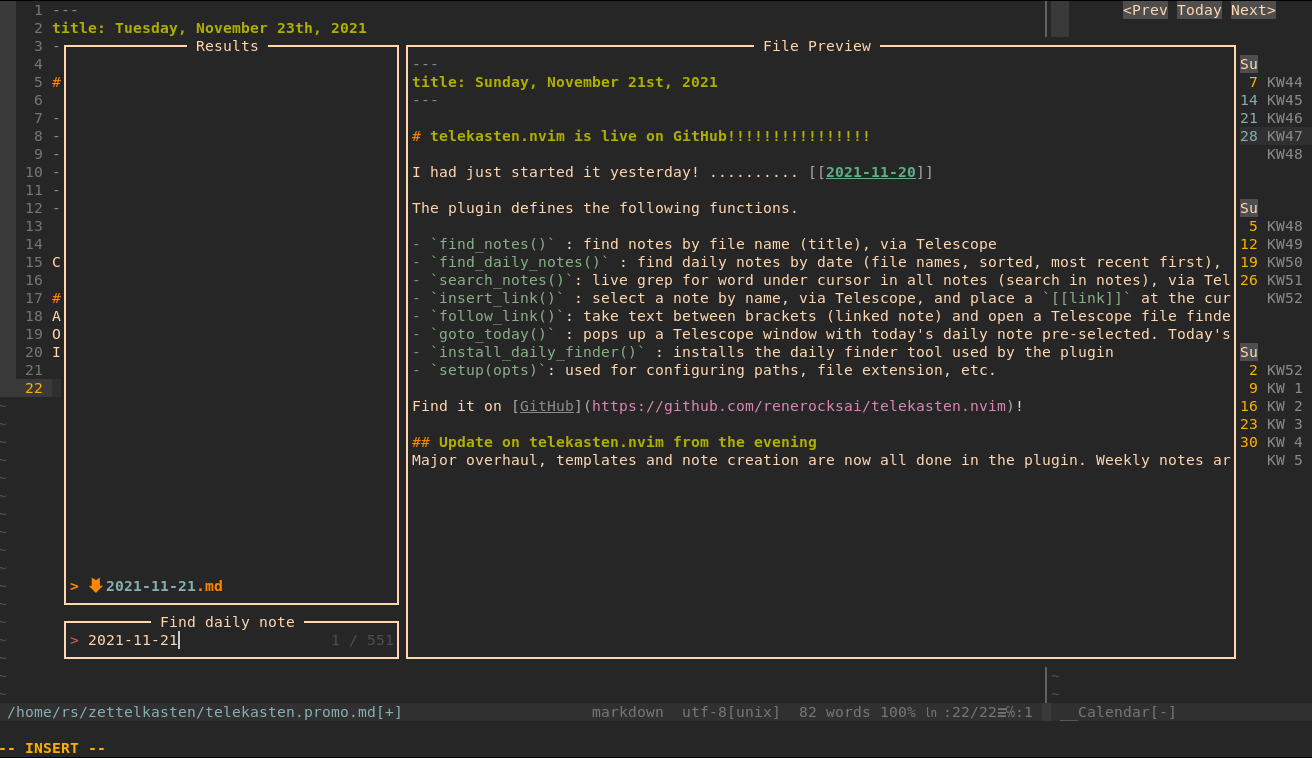
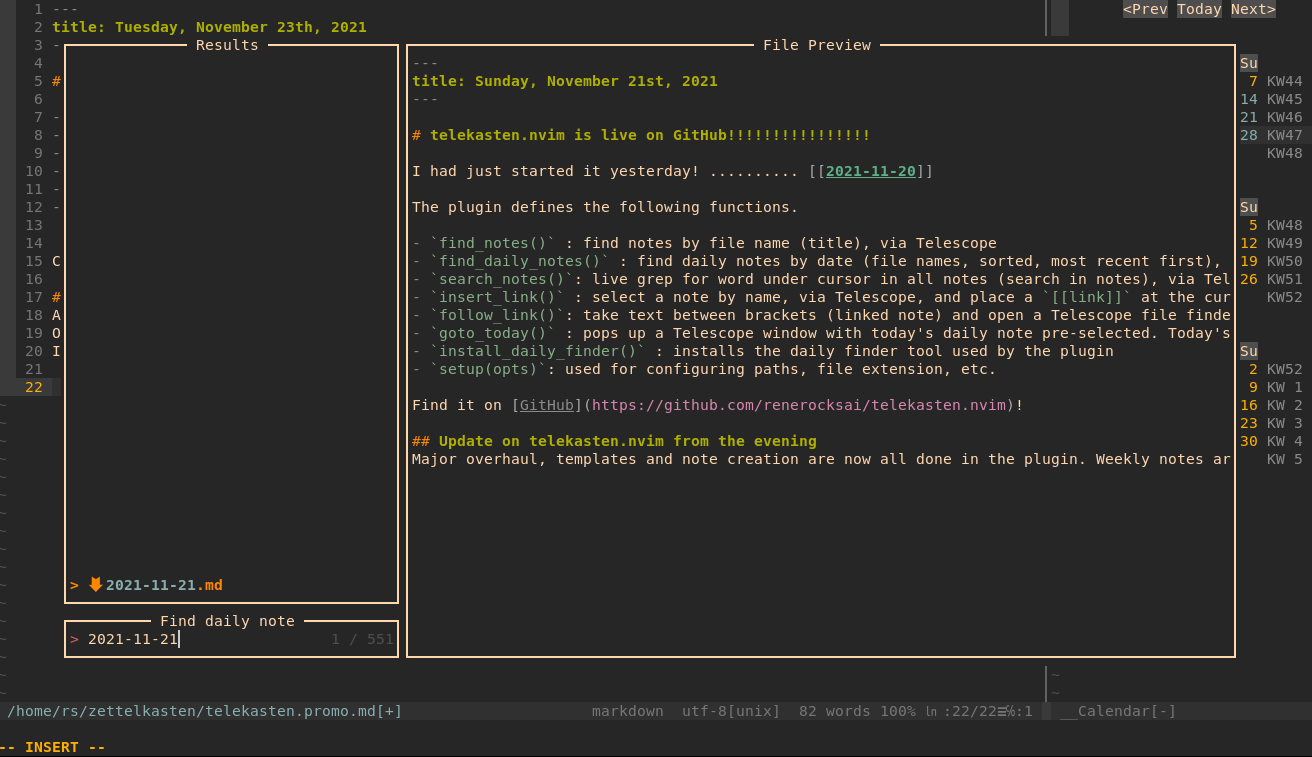
u r img

diff --git a/README.md b/README.md
@@ -41,7 +41,7 @@ not only for writing code.
 This is the result of my first days of hacking neovim with lua (more features have been added since, see 
 [Use it](#2-use-it) below the screenshots):
 
-![](img/2021-12-03_13-17.png)
+![](img/2021-12-03_13-42.png)
 
 ---
 
